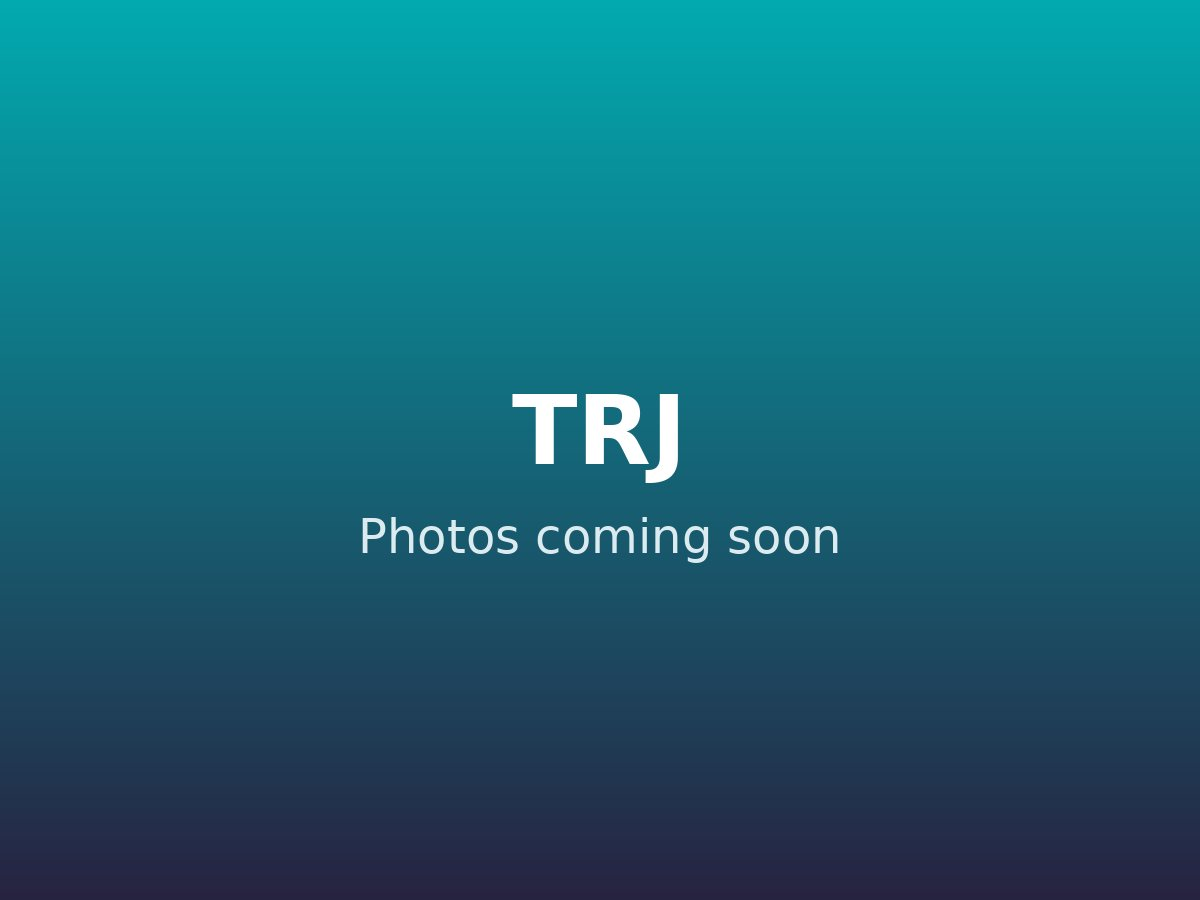
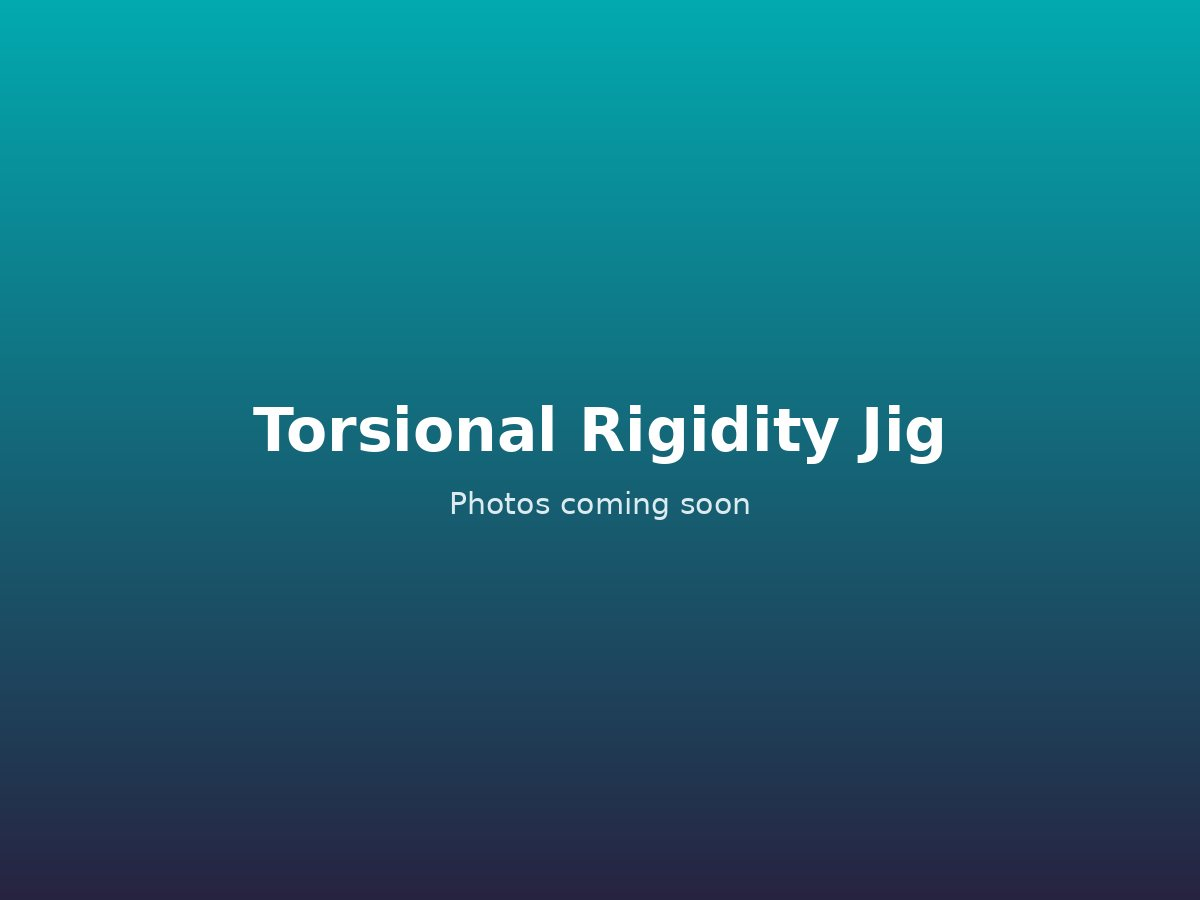
Name the TRJ project: Torsional Rigidity Jig
Claude-Session: https://claude.ai/code/session_01CibwtB9Jxv2JKDmJJXBpMB

Changed region(s): [[0.2158, 0.4356, 0.8017, 0.6222]]

diff --git a/src/projects/trj.html b/src/projects/trj.html
@@ -11,8 +11,8 @@
     <meta charset="utf-8" />
     <meta name="viewport" content="width=device-width, initial-scale=1" />
     <link rel="shortcut icon" type="image/png" href="../assets/favicon.png" />
-    <title>TRJ | Cameron Potter</title>
-    <meta name="description" content="[One or two sentences: what TRJ is and what you did on it.]" />
+    <title>Torsional Rigidity Jig | Cameron Potter</title>
+    <meta name="description" content="A test jig for measuring the torsional rigidity of HyTech Racing&rsquo;s Formula SAE monocoque. [One more sentence: what you did on it.]" />
     <link rel="stylesheet" href="../project-page.scss" />
   </head>
   <body>
@@ -20,24 +20,24 @@
       <a class="project-page__back" href="../index.html#projects">&larr; All projects</a>
 
       <div class="project-page__tags">
-        <span>[Skill]</span>
-        <span>[Skill]</span>
+        <span>Test fixture design</span>
+        <span>Formula SAE</span>
       </div>
-      <h1>TRJ</h1>
+      <h1>Torsional Rigidity Jig</h1>
       <p class="project-page__summary">
-        [One or two sentences: what TRJ is and what you did on it.]
+        A test jig for measuring the torsional rigidity of HyTech Racing&rsquo;s Formula SAE monocoque. [One more sentence: what you did on it.]
       </p>
 
       <dl class="project-page__facts">
         <div><dt>When</dt><dd>[When]</dd></div>
-        <div><dt>My role</dt><dd>[Your role]</dd></div>
+        <div><dt>My role</dt><dd>[Your role], HyTech Racing</dd></div>
         <div><dt>Tools</dt><dd>[Tools you used]</dd></div>
       </dl>
 
       <img
         class="project-page__cover"
         src="../assets/projects/trj-card.jpg"
-        alt="Placeholder cover for the TRJ project"
+        alt="Placeholder cover for the torsional rigidity jig project"
       />
 
       <h2>Overview</h2>

diff --git a/src/index.html b/src/index.html
@@ -188,14 +188,14 @@
             </div>
           </div>
 
-          <!-- Project: TRJ. Its full page is src/projects/trj.html -->
+          <!-- Project: Torsional Rigidity Jig. Its full page is src/projects/trj.html -->
           <div class="row">
             <div class="col-lg-4 col-sm-12">
               <div class="project-wrapper__text load-hidden">
-                <h3 class="project-wrapper__text-title">TRJ</h3>
+                <h3 class="project-wrapper__text-title">Torsional Rigidity Jig</h3>
                 <div>
                   <p class="mb-4">
-                    [One or two sentences about TRJ.]
+                    A test jig for measuring the torsional rigidity of HyTech Racing&rsquo;s Formula SAE monocoque. [One more sentence about your part in it.]
                   </p>
                 </div>
                 <a class="cta-btn cta-btn--hero" href="projects/trj.html">
@@ -214,7 +214,7 @@
                     class="thumbnail rounded js-tilt"
                   >
                     <img
-                      alt="TRJ project"
+                      alt="Torsional rigidity jig project"
                       class="img-fluid"
                       src="assets/projects/trj-card.jpg"
                     />
